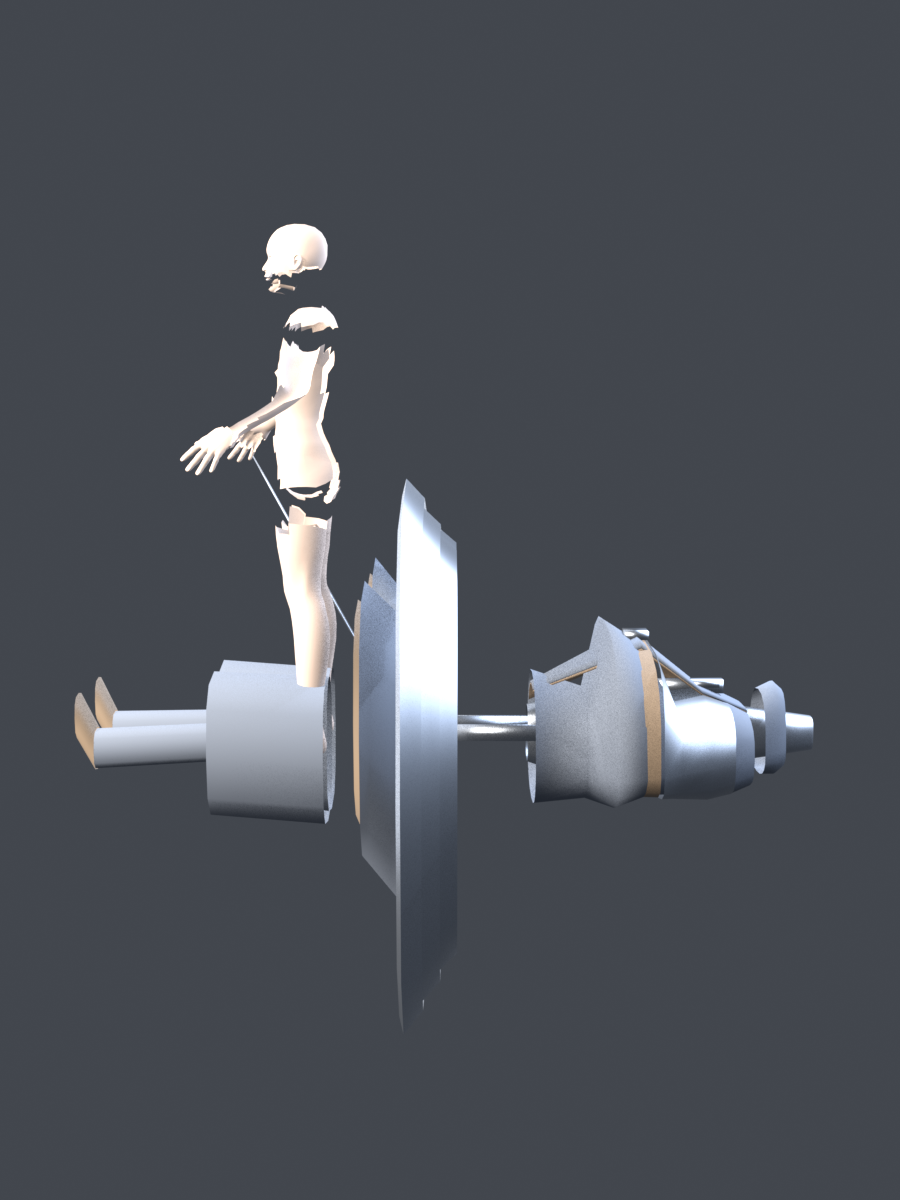
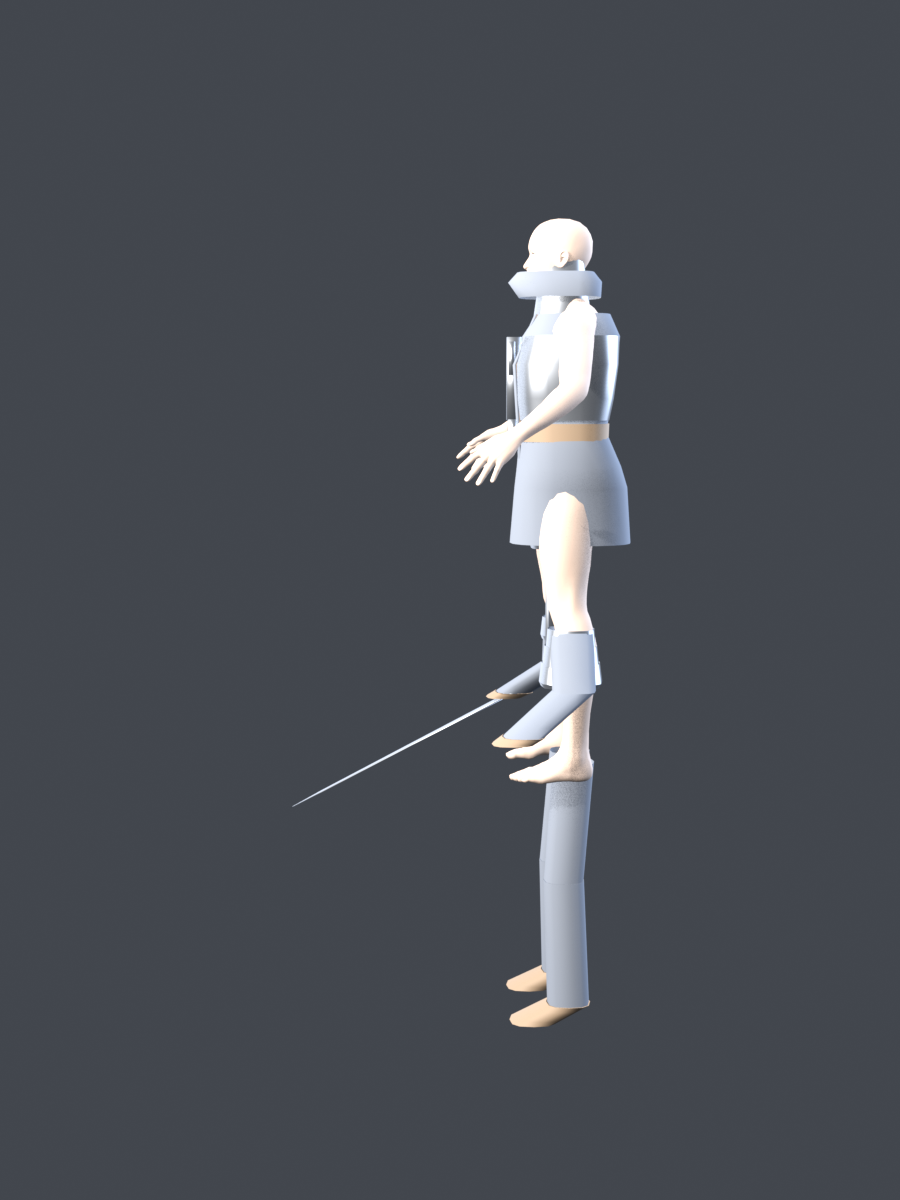
art(hero): torso outfit fits the measured body; limbs still wrong
Three real fixes. The torso now works; the limbs do not, and this commit
says so rather than shipping it.

1. Torso measurement is filtered by bone weights, not by a horizontal slab.
   MPFB stands in an A-pose with the arms down at the sides, so a slab at
   waist height contains the hands and the "waist half-width" it returned was
   the arm span -- the coat lofted as metre-wide discs. A vertex now counts
   only if the torso bones own more of it than the limb bones do. Girths came
   back sane: hip 0.155, waist 0.141, chest 0.165 on a 1.835 m male.

2. `limb_measure` had exactly the same contamination -- sampling everything
   near the upper-arm axis picks up the ribcage in an A-pose, so the radius
   was a torso half-width and the shoulder lames lofted as half-metre discs.
   Now restricted to vertices the bone actually dominates.

3. Setting `.parent` in Blender does not preserve world transform. Garments
   are built in world space inside a pivot rotated into Y-up, so parenting
   them to the armature applied that rotation a second time and the whole
   outfit ended up lying on the floor beside the character.
   `matrix_parent_inverse` cancels it.

Cull is now off during fitting, behind HERO_OUTFIT_CULL=1. A wrong garment
swallows the torso and the cull then deletes it, which hides the very error
being looked for.

Working: coat body, fur collar, front closure, belt, cuirass with keel,
fauld, chest emblem, and a sword built rigid to hand_r. All sized from the
[…]

Changed region(s): [[0.0622, 0.185, 0.9022, 0.8633]]

diff --git a/scripts/blender/hero_outfit.py b/scripts/blender/hero_outfit.py
@@ -51,52 +51,107 @@ MATERIAL_OF = {
 }
 
 
-def measure(body, heights, samples=64):
-    """Half-width, front depth and back depth of the body at each height.
+# Bones whose vertices ARE the torso. Everything else -- arms, hands, legs,
+# feet -- is excluded from torso measurement.
+TORSO_BONES = ("pelvis", "spine_01", "spine_02", "spine_03", "neck_01", "neck", "head")
+LIMB_TOKENS = ("upperarm", "lowerarm", "hand", "thumb", "index", "middle",
+               "ring", "pinky", "thigh", "calf", "foot", "ball", "clavicle")
 
-    Reads the real mesh, so a broader male ribcage and a narrower female one
-    produce different garments from identical code.
+
+def torso_vertices(body):
+    """World positions of the vertices that belong to the torso.
+
+    The first version took `max(abs(x))` over a horizontal slab. MPFB stands
+    in an A-pose with the arms down at the sides, so at waist height that slab
+    contains the hands -- and the "waist half-width" it returned was the arm
+    span. The coat lofted as metre-wide discs.
+
+    Filtering by weight makes that impossible: a vertex counts only if the
+    torso bones own more of it than the limb bones do.
     """
-    verts = [body.matrix_world @ v.co for v in body.data.vertices]
-    lo = min(v.y for v in verts)
-    hi = max(v.y for v in verts)
+    groups = {g.index: g.name for g in body.vertex_groups}
+    torso_ids = {i for i, n in groups.items() if n in TORSO_BONES}
+    limb_ids = {i for i, n in groups.items()
+                if any(token in n.lower() for token in LIMB_TOKENS)}
+    if not torso_ids:
+        return None
+
+    kept = []
+    for vertex in body.data.vertices:
+        torso = sum(g.weight for g in vertex.groups if g.group in torso_ids)
+        limb = sum(g.weight for g in vertex.groups if g.group in limb_ids)
+        if torso > 0.5 and torso > limb:
+            kept.append(body.matrix_world @ vertex.co)
+    return kept or None
+
+
+def measure(body, heights):
+    """Half-width, front depth and back depth of the TORSO at each height."""
+    torso = torso_vertices(body)
+    everything = [body.matrix_world @ v.co for v in body.data.vertices]
+    lo = min(v.y for v in everything)
+    hi = max(v.y for v in everything)
     height = hi - lo
+    # The overall figure sets the height scale; the torso sets the girths.
+    source = torso if torso else everything
     out = {}
     for key, fraction in heights.items():
         y = lo + height * fraction
-        band = [v for v in verts if abs(v.y - y) < height * 0.018]
-        if not band:
-            band = sorted(verts, key=lambda v: abs(v.y - y))[:40]
+        band = [v for v in source if abs(v.y - y) < height * 0.022]
+        if len(band) < 8:
+            band = sorted(source, key=lambda v: abs(v.y - y))[:60]
+        widths = sorted(abs(v.x) for v in band)
+        fronts = sorted(v.z for v in band)
+        backs = sorted(-v.z for v in band)
+        # 92nd percentile rather than max: a single stray vertex on a seam
+        # should not set the size of a coat.
+        def pick(values):
+            return values[min(len(values) - 1, int(len(values) * 0.92))]
         out[key] = {
             "y": y,
-            "halfWidth": max(abs(v.x) for v in band),
-            "front": max(v.z for v in band),
-            "back": -min(v.z for v in band),
+            "halfWidth": pick(widths),
+            "front": pick(fronts),
+            "back": pick(backs),
         }
     return out, lo, hi, height
 
 
-def limb_measure(body, bone_head, bone_tail, armature, samples=5):
-    """Radius of the limb around a bone, sampled along it."""
-    to_world = armature.matrix_world
-    a = to_world @ bone_head
-    b = to_world @ bone_tail
+def limb_measure(body, bone_name, armature, samples=5):
+    """Radius of the limb, from vertices that bone actually owns.
+
+    Same contamination as the torso had: sampling everything near the bone
+    axis picks up the ribcage around an upper arm in an A-pose, so the radius
+    came back as a torso half-width and the shoulder lames lofted as
+    half-metre discs. Only vertices this bone dominates are counted.
+    """
+    bone = armature.pose.bones.get(bone_name)
+    if bone is None:
+        return 0.06
+    group = body.vertex_groups.get(bone_name)
+    if group is None:
+        return 0.06
+    a = armature.matrix_world @ bone.head
+    b = armature.matrix_world @ bone.tail
     axis = (b - a)
     length = axis.length
     if length < 1e-6:
         return 0.06
     axis = axis.normalized()
-    verts = [body.matrix_world @ v.co for v in body.data.vertices]
+
     radii = []
-    for i in range(1, samples):
-        t = i / samples
-        point = a + axis * (length * t)
-        near = [((v - point) - axis * ((v - point).dot(axis))).length
-                for v in verts if abs((v - point).dot(axis)) < length * 0.12]
-        if near:
-            near.sort()
-            radii.append(near[int(len(near) * 0.92)])
-    return sum(radii) / len(radii) if radii else 0.06
+    for vertex in body.data.vertices:
+        weight = next((g.weight for g in vertex.groups if g.group == group.index), 0.0)
+        if weight < 0.55:
+            continue
+        world = body.matrix_world @ vertex.co
+        along = (world - a).dot(axis)
+        if not (0.0 <= along <= length):
+            continue
+        radii.append(((world - a) - axis * along).length)
+    if not radii:
+        return 0.06
+    radii.sort()
+    return radii[min(len(radii) - 1, int(len(radii) * 0.90))]
 
 
 def build_outfit(body, armature, variant):
@@ -187,7 +242,7 @@ def build_outfit(body, armature, variant):
         if bone is None:
             continue
         origin = armature.matrix_world @ bone.head
-        radius = limb_measure(body, bone.head, bone.tail, armature)
+        radius = limb_measure(body, f"upperarm_{side.lower()}", armature)
         for lame in range(lames):
             drop = height * 0.030 * lame
             grow = 1.0 + 0.13 * lame
@@ -217,7 +272,7 @@ def build_outfit(body, armature, variant):
                 continue
             a = armature.matrix_world @ bone.head
             c = armature.matrix_world @ bone.tail
-            radius = max(0.03, limb_measure(body, bone.head, bone.tail, armature))
+            radius = max(0.03, limb_measure(body, bone_name, armature))
             steps = 4
             rings = []
             for i in range(steps + 1):
@@ -348,6 +403,12 @@ def transfer_weights(garment, body, armature):
     modifier = garment.modifiers.new("skin", "ARMATURE")
     modifier.object = armature
     garment.parent = armature
+    # Setting `.parent` does NOT preserve world transform. The garment is
+    # built in world space inside a pivot that is rotated into Y-up, so
+    # parenting it to the armature applied that rotation a second time and the
+    # coat ended up lying on the floor beside the character. The inverse
+    # cancels the parent's current transform.
+    garment.matrix_parent_inverse = armature.matrix_world.inverted()
 
 
 def rigid_weights(obj, armature, bone_name):
@@ -356,6 +417,7 @@ def rigid_weights(obj, armature, bone_name):
     modifier = obj.modifiers.new("skin", "ARMATURE")
     modifier.object = armature
     obj.parent = armature
+    obj.matrix_parent_inverse = armature.matrix_world.inverted()
 
 
 def cull_hidden_body(body, garments, margin):
@@ -466,7 +528,11 @@ def main():
         rigid_weights(sword, armature, sword_bone)
 
     body_before = triangles(body)
-    culled = cull_hidden_body(body, [outfit], margin=height * 0.075)
+    # Cull is OFF during fitting. A wrong garment swallows the torso and the
+    # cull then deletes it, which hides the very error being looked for.
+    culled = 0
+    if os.environ.get("HERO_OUTFIT_CULL") == "1":
+        culled = cull_hidden_body(body, [outfit], margin=height * 0.075)
     bpy.context.view_layer.update()
 
     # Back to Blender's Z-up so the exporter's conversion lands correctly.
